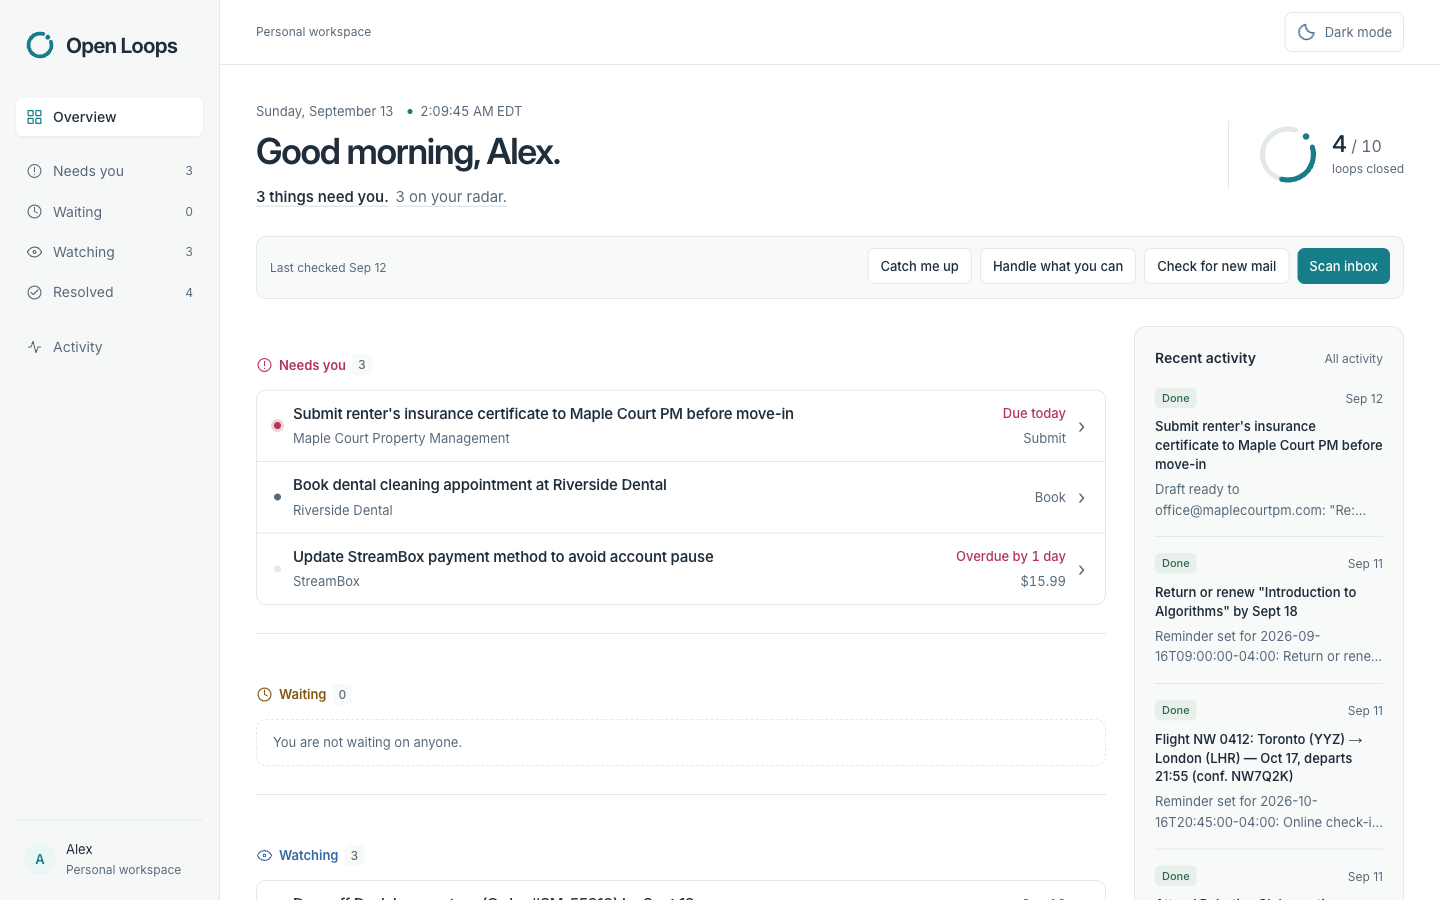
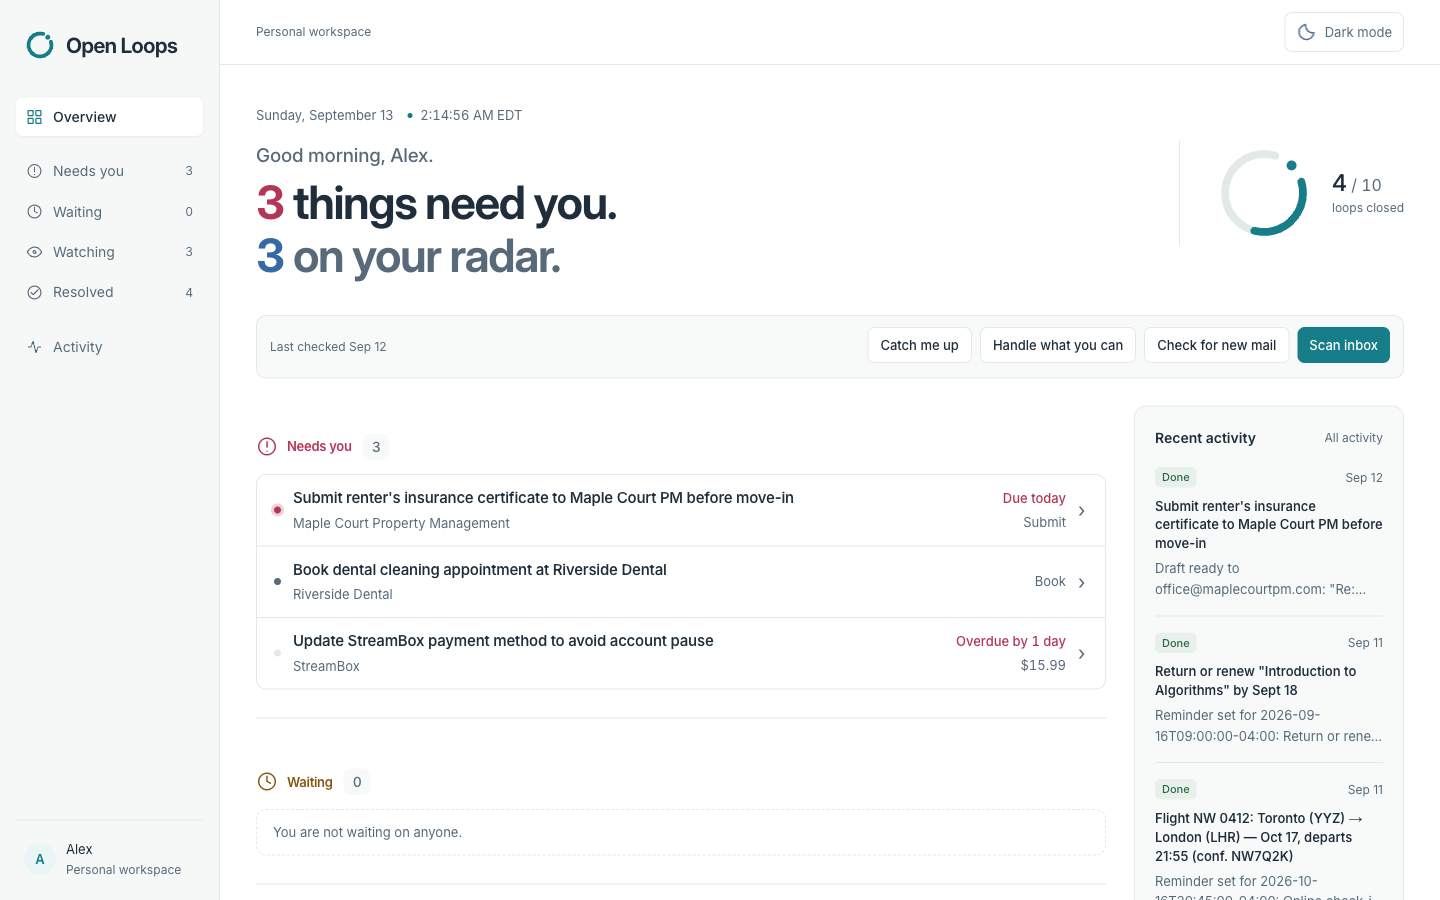
feat(web): the summary is the headline; larger state headings and ring
Closes #76

Claude-Session: https://claude.ai/code/session_019ubQ7yENbnT3cashjRQMUd

diff --git a/web/app/globals.css b/web/app/globals.css
@@ -779,8 +779,8 @@ summary {
   display: flex;
   align-items: center;
   justify-content: space-between;
-  gap: 24px;
-  padding: 10px 0 28px;
+  gap: 32px;
+  padding: 14px 0 34px;
 }
 .hero-copy {
   min-width: 0;
@@ -792,47 +792,64 @@ summary {
   color: var(--muted);
   font-size: 13px;
 }
-.hero h1 {
-  margin-top: 7px;
-  font-size: clamp(27px, 2.6vw, 36px);
-  line-height: 1.2;
-  font-weight: 600;
-  letter-spacing: -0.035em;
-}
-.hero-summary {
-  margin-top: 12px;
-  font-size: 15px;
-  line-height: 1.6;
-  display: flex;
-  flex-wrap: wrap;
-  gap: 0 0.45em;
+.hero-greeting {
+  margin-top: 14px;
+  font-size: 19px;
+  font-weight: 500;
   color: var(--muted);
+  letter-spacing: -0.01em;
+}
+/* The headline is what needs you, not the greeting: one fragment per line, the count in its
+   state color. Lines rise in once on load, staggered by --line; the ring draws alongside. */
+.hero-summary {
+  display: flex;
+  flex-direction: column;
+  align-items: flex-start;
+  gap: 2px;
+  margin-top: 6px;
+  font-size: clamp(32px, 3.3vw, 46px);
+  line-height: 1.12;
+  font-weight: 650;
+  letter-spacing: -0.03em;
+}
+.hero-line {
+  animation: hero-rise 620ms cubic-bezier(0.2, 0.7, 0.2, 1) both;
+  animation-delay: calc(var(--line, 0) * 90ms + 60ms);
+}
+.hero-count {
+  font-weight: 700;
+  color: var(--state-color, var(--foreground));
+  font-variant-numeric: tabular-nums;
 }
 .hero-summary a {
-  text-decoration: underline;
-  text-decoration-color: var(--border);
-  text-underline-offset: 4px;
+  color: var(--foreground);
+  text-decoration: none;
+  transition: color 160ms;
+}
+.hero-summary a:not(:first-child) {
+  color: var(--muted);
 }
 .hero-summary a:hover {
-  color: var(--accent);
-  text-decoration-color: currentColor;
+  color: var(--state-color, var(--accent));
 }
-.hero-summary a:first-child {
-  color: var(--foreground);
-  font-weight: 550;
+@keyframes hero-rise {
+  from {
+    opacity: 0;
+    transform: translateY(10px);
+  }
 }
 .loop-ring {
   flex: 0 0 auto;
   display: flex;
   align-items: center;
-  gap: 10px;
+  gap: 16px;
   margin: 0;
-  padding-left: 25px;
+  padding-left: 32px;
   border-left: 1px solid var(--border);
 }
 .loop-ring svg {
-  width: 68px;
-  height: 68px;
+  width: 104px;
+  height: 104px;
 }
 .loop-ring figcaption {
   display: flex;
@@ -914,26 +931,28 @@ summary {
 .section-heading {
   display: flex;
   align-items: center;
-  gap: 6px;
-  margin-bottom: 11px;
-  font-size: 16px;
-  font-weight: 600;
+  gap: 9px;
+  margin-bottom: 14px;
+  font-size: 22px;
+  font-weight: 650;
+  letter-spacing: -0.02em;
 }
 .section-label {
   color: var(--state-color);
 }
 .section-heading svg {
-  width: 17px;
-  height: 17px;
+  width: 22px;
+  height: 22px;
   color: var(--state-color);
 }
 .section-count {
-  font-size: 12px;
+  margin-left: 2px;
+  font-size: 14px;
   font-weight: 500;
   color: var(--muted);
   background: var(--surface);
-  border-radius: 5px;
-  padding: 1px 6px;
+  border-radius: 7px;
+  padding: 2px 9px;
   font-variant-numeric: tabular-nums;
 }
 .loop-list {
@@ -1092,11 +1111,15 @@ summary {
     gap: 15px;
     padding: 0 0 22px;
   }
-  .hero h1 {
-    font-size: 26px;
+  .hero-greeting {
+    font-size: 16px;
+    margin-top: 10px;
   }
   .hero-summary {
-    font-size: 15px;
+    font-size: clamp(28px, 8.5vw, 34px);
+  }
+  .section-heading {
+    font-size: 19px;
   }
   .loop-ring {
     padding-left: 0;
@@ -1200,7 +1223,8 @@ summary {
   :root[data-theme-transition]::view-transition-new(root) {
     animation: none;
   }
-  .ring-progress {
+  .ring-progress,
+  .hero-line {
     animation: none;
   }
   *,

diff --git a/web/app/page.tsx b/web/app/page.tsx
@@ -61,7 +61,7 @@ export default async function Home() {
 
   return (
     <div className="dashboard">
-      <section className="hero" aria-labelledby="greeting">
+      <section className="hero" aria-labelledby="headline">
         <div className="hero-copy">
           <p className="hero-date">
             <span>
@@ -74,20 +74,36 @@ export default async function Home() {
             </span>
             <LiveClock timeZone={DEMO_TIME_ZONE} />
           </p>
-          <h1 id="greeting">
+          <p className="hero-greeting">
             {greeting}, {USER_NAME}.
-          </h1>
-          <p className="hero-summary">
-            {summaryParts(groups).map((part) =>
-              part.section ? (
-                <a key={part.text} href={`#${part.section}`}>
-                  {part.text}
+          </p>
+          <h1 id="headline" className="hero-summary">
+            {summaryParts(groups).map((part, index) => {
+              const [, count, rest] = part.text.match(/^(\d+)\s(.*)$/) ?? []
+              const line = count ? (
+                <>
+                  <strong className="hero-count">{count}</strong> {rest}
+                </>
+              ) : (
+                part.text
+              )
+              const style = { '--line': index } as React.CSSProperties
+              return part.section ? (
+                <a
+                  key={part.text}
+                  href={`#${part.section}`}
+                  data-state={part.section}
+                  style={style}
+                >
+                  {line}
                 </a>
               ) : (
-                <span key={part.text}>{part.text}</span>
-              ),
-            )}
-          </p>
+                <span key={part.text} className="hero-line" style={style}>
+                  {line}
+                </span>
+              )
+            })}
+          </h1>
         </div>
         <LoopRing closed={resolved} total={loops.length} />
       </section>

diff --git a/web/README.md b/web/README.md
@@ -15,7 +15,7 @@ Loop page (#67): one responsibility in the order a person checks it. The header 
 
 Sources: `/messages/[id]` renders one demo email or calendar event so every evidence line and source ref on a loop page links back to what the agent actually read (SPEC §12). The inbox comes from `demo/seed-inbox.json` merged with `seed-inbox-delta.json`, bundled at build time rather than read from disk; unknown ids 404.
 
-Dashboard design (#18, #52, #61): one summary sentence links to what needs you, what is waiting and what is on your radar (SPEC §7). Compact rows give the full responsibility title room to wrap, put its requester or waiting party underneath, and align the due date and amount or action on the right. Overdue, today and tomorrow deadlines use the attention color only when the user owes a move; closed loops carry no urgency dot. Recent activity shows the latest meaningful event per responsibility, with the full history on Activity. The agent's reasoning and next-action prose live in bordered sections on the loop page. The palette is a white canvas with navy text, a navy dark theme (persistent toggle, cookie-backed, circular reveal from the button through the View Transitions API with reduced-motion and unsupported-browser fallbacks), the Teal brand, and one hue per state carried by the state heading text itself: pink Needs you, amber Waiting, blue Watching, green Resolved. Resolved stays a disclosure and opens on first load. The open-ring-and-dot mark has matching geometry in the wordmark, favicon and compact closed-share indicator (`components/loop-mark.tsx`, SVG with a single CSS draw-in that reduced-motion disables). Type is Inter with optical sizing, a 16px base, tabular figures, and a 68-character measure on source pages. Empty sections remain valid navigation destinations, and a Resolved shortcut opens its section. Desktop and 400px captures, light and dark, are in [`docs/screenshots/`](../docs/screenshots/).
+Dashboard design (#18, #52, #61, #76): the summary is the headline, set in display type one fragment per line with each count in its state color, and each fragment links to its section (SPEC §7); the greeting sits above it as a secondary line and the lines rise in once on load, which reduced-motion turns off. State headings are 22px so the four states read as the page's structure. Compact rows give the full responsibility title room to wrap, put its requester or waiting party underneath, and align the due date and amount or action on the right. Overdue, today and tomorrow deadlines use the attention color only when the user owes a move; closed loops carry no urgency dot. Recent activity shows the latest meaningful event per responsibility, with the full history on Activity. The agent's reasoning and next-action prose live in bordered sections on the loop page. The palette is a white canvas with navy text, a navy dark theme (persistent toggle, cookie-backed, circular reveal from the button through the View Transitions API with reduced-motion and unsupported-browser fallbacks), the Teal brand, and one hue per state carried by the state heading text itself: pink Needs you, amber Waiting, blue Watching, green Resolved. Resolved stays a disclosure and opens on first load. The open-ring-and-dot mark has matching geometry in the wordmark, favicon and compact closed-share indicator (`components/loop-mark.tsx`, SVG with a single CSS draw-in that reduced-motion disables). Type is Inter with optical sizing, a 16px base, tabular figures, and a 68-character measure on source pages. Empty sections remain valid navigation destinations, and a Resolved shortcut opens its section. Desktop and 400px captures, light and dark, are in [`docs/screenshots/`](../docs/screenshots/).
 
 Theme: the site defaults to light regardless of the device setting. The header toggle is available on every page and stores the choice in the `openloops-theme` cookie for one year; the root layout reads it so reloads render in the chosen theme immediately. The dashboard and ledger stay in Server Components; navigation, the theme toggle and agent buttons add client behavior.
 

diff --git a/STATUS.md b/STATUS.md
@@ -15,7 +15,7 @@ Runnable locally: `pnpm --filter @openloop/web dev` renders the seeded ledger, a
 - Repository context system, CI (context check, secret scan, workspace checks including a production build of the web app), accepted architecture in ADRs 0003 to 0012, judge-facing `README.md` and the submission architecture diagram (`docs/architecture/`).
 - `packages/shared`: schemas for OpenLoop, Evidence, ProposedAction, AuditEvent and the four agent outputs; state transitions; `LedgerStore` with `LocalLedgerStore` (memory or JSON file) and a shared contract suite; `IngestionSource` with `FixtureSource`.
 - `demo/seed-inbox.json` (15 messages, 3 events, 12 threads) and `demo/seed-ledger.json` (the 11 loops the agent should produce), both validated by tests.
-- `web/`: dashboard with a linked summary, readable title/source rows and aligned deadlines, compact closed-share ring, agent toolbar with first-scan progress, recent activity per responsibility and phone bottom tabs. White by default with a navy dark theme behind a persistent reveal toggle, state headings set in their state color, Inter for reading, and Resolved open on first load. Loop page in reading order: facts strip, what to do (next action, consequence, done button), evidence as quotes with source links, actions with the effects the agent produced, history with long reasoning folded; a live clock sits in the overview hero; approve/decline with pending state, "I already did this", activity feed, and a message page behind every source id let each claim be checked against the original mail or event. Runs on the local ledger seeded from the demo.
+- `web/`: dashboard with the summary as its headline (counts in state colors, each fragment linking to its section), readable title/source rows and aligned deadlines, compact closed-share ring, agent toolbar with first-scan progress, recent activity per responsibility and phone bottom tabs. White by default with a navy dark theme behind a persistent reveal toggle, state headings set in their state color, Inter for reading, and Resolved open on first load. Loop page in reading order: facts strip, what to do (next action, consequence, done button), evidence as quotes with source links, actions with the effects the agent produced, history with long reasoning folded; a live clock sits in the overview hero; approve/decline with pending state, "I already did this", activity feed, and a message page behind every source id let each claim be checked against the original mail or event. Runs on the local ledger seeded from the demo.
 - `packages/ledger-dynamo`: DynamoDB ledger passing the shared contract suite against a real table; tables `openloop-ledger` and `openloop-ledger-test` exist in `us-east-1`.
 - `agent/`: AgentCore project with the Strands pipeline (Extractor, Investigator with inbox and ledger tools, Risk Judge, update path for new mail in tracked threads, Action Agent; all structured output on Claude Sonnet 4.6). `handle` executes allowed actions through a simulated sink; `execute` runs one approved action; high risk never executes without approval (enforced in code, tested); `catch_up` summarizes state changes since the last check from the ledger alone. A real scan of the 12-thread demo inbox produces 11 loops with the expected states in four to five and a half minutes, writing evidence, proposed actions (high-risk ones gated) and audit events through the shared ledger. `runScan` and `executeAction` emit a structured JSON line per pipeline step (thread, role, duration, outcome) to stdout for CloudWatch; shapes and capture queries in `docs/architecture/observability/`. Deployed to AgentCore Runtime (`AgentCore-OpenLoop-default`, `us-east-1`) writing to DynamoDB; invoked end to end from the AWS CLI and from the web app's Scan button.
 
